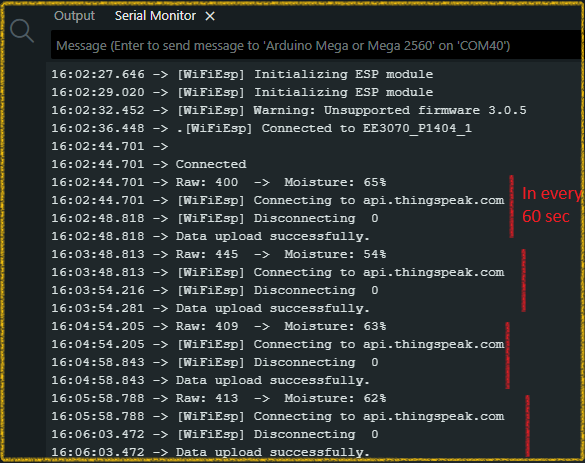
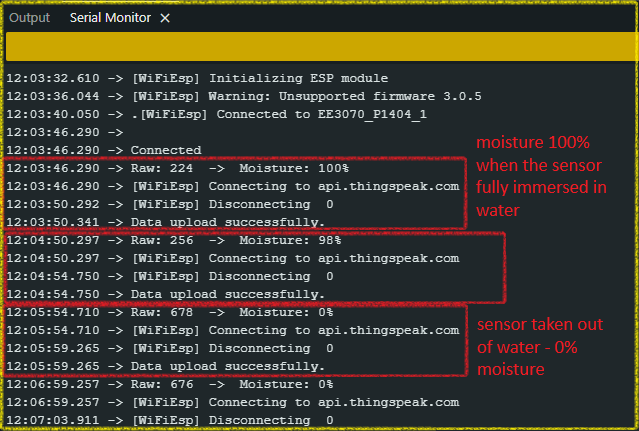
09 Jan 2026 17:34
ThingSpeak code revised

diff --git a/docs/2_Software_Development.md b/docs/2_Software_Development.md
@@ -5,7 +5,7 @@ A complete IoT system has many parts that need to work together. Instead of writ
 
 Our first step is to get a reliable reading from the moisture sensor.
 
-**Part 1: Calibrating the Moisture Sensor**
+## Part 1: Calibrating the Moisture Sensor
 
 The analog output of the moisture sensor gives us a raw number, not a percentage. This raw value can vary between different sensors and depends on the voltage supplied. To get a meaningful moisture percentage (0% to 100%), we first need to calibrate our specific sensor.
 
@@ -62,7 +62,7 @@ Your values will be slightly different, but they should look something like this
 
 ---
 
-**Part 2: Converting Raw Values to a Percentage**
+## Part 2: Converting Raw Values to a Percentage
 
 Now that we have our unique calibration values, we can write a new program to convert the sensor's raw output into an intuitive 0% to 100% moisture scale. For this, we will use the incredibly useful `map()` function in Arduino.
 
@@ -115,7 +115,7 @@ void loop() {
 **2. How the Code Works**
 
 - **`DRY_VALUE` and `WET_VALUE`:** We store our calibration numbers in constant variables at the top of the code. This makes them easy to find and change.
-- **`map(rawValue, DRY_VALUE, WET_VALUE, 0, 100)`:** This is the core of our conversion. It tells the Arduino: "Take the `rawValue`. If it's equal to `DRY_VALUE` (680), the result is 0. If it's equal to `WET_VALUE` (250), the result is 100. For any value in between, calculate the proportional percentage." The function is smart enough to handle the fact that our "from" range is inverted (from a high number to a low one).
+- **`map(rawValue, DRY_VALUE, WET_VALUE, 0, 100)`:** This is the core of our conversion. It tells the Arduino: "Take the `rawValue`. If it's equal to `DRY_VALUE` (680), the result is 0%. If it's equal to `WET_VALUE` (250), the result is 100%. For any value in between, calculate the proportional percentage." The function is smart enough to handle the fact that our "from" range is inverted (from a high number to a low one).
 - **`constrain(moisturePercent, 0, 100)`:** This is a safety function. It ensures that our final `moisturePercent` value will never be displayed as less than 0 or greater than 100, even if there's a strange spike in the sensor reading.
 
 **3. Testing the Program**
@@ -137,7 +137,7 @@ With this reliable percentage reading, we are now ready to connect our project t
 
 ---
 
-**Part 3A: Uploading moisture data to ThingSpeak**
+## Part 3A: Uploading moisture data to ThingSpeak
 
 Now that we can accurately measure soil moisture, the next step is to send this data to the ThingSpeak channel we configured. This will involve writing Arduino code that connects to your Wi-Fi and sends HTTP requests containing the sensor data.
 
@@ -220,7 +220,19 @@ void loop() {
 
 <img src = "./images/Thingspeak_upload_v1_serialmon.png">
 
+<img src = "./images/1767932416225.jpg">
+
+<img src= "./images/1767932427613.jpg">
+
+To send the soil moisture data to the cloud, the code calls the `ThingSpeak.writeFields()` function. ThingSpeak then automatically adds a timestamp to each new reading as it arrives, which allows us to track the moisture levels over time.
+
+We can test the alert system by simulating a "dry soil" event (0% moisture) by simply taking the sensor out of the water. This low value triggers a 'React' app within ThingSpeak, which is configured to use the ThingHTTP service (see [3_Cloud_Configuration.md](3_Cloud_Configuration.md) for setup details). 
+
 <img src = "./images/Thingspeak_upload_v1_on_field1.png">
+
+ThingHTTP then sends a REST API request to CallMeBot, an external service that sends a notification to my phone via WhatsApp, as shown in the screenshot below.
+
+<img src = "./images/callmebot_message_1.jpg">
 
 **Critique of this Preliminary Version**
 
@@ -235,7 +247,7 @@ This "blocking" approach is simple to understand, but it's not scalable. A bette
 
 In the next section, we will improve this sketch to solve these problems, creating a more robust foundation for our final project.
 
-**Part 3B: Uploading moisture data to ThingSpeak - an improved version**
+## Part 3B: Uploading moisture data to ThingSpeak - an improved version
 
 As we discussed, the `delay()` function in our first version makes our program "blocking," which is not ideal. To build a scalable IoT device, we need our code to be responsive and capable of handling multiple tasks at once.
 
@@ -293,6 +305,10 @@ The complete source code can be found in the `Code/4_ThingSpeak_Upload_Moisture_
 #define SENSOR_PIN A0 
 #define PUMP_RELAY_PIN 2
 
+// --- enable/disable ThingSpeak at compile time ---
+// comment to disable ThingSpeak uploads  
+// #define THINGSPEAK_ENABLE
+
 // --- Sensor Calibration ---
 // Replace these with the values you found in the calibration step
 const int DRY_VALUE = 680; // Raw ADC value for 0% moisture (in air)
@@ -330,9 +346,10 @@ void controlWaterPump();
 // SETUP: Runs once when the Arduino starts up
 // ==============================================================================
 void setup() {
-  Serial.begin(115200);
+  Serial.begin(SERIAL_MON_BAUDRATE);
   Serial1.begin(ESP_BAUDRATE); // Initialize Serial1 for ESP8266 modem
-
+  delay(500); //a short delay to let Serial port settle
+    
   pinMode(PUMP_RELAY_PIN, OUTPUT);
   digitalWrite(PUMP_RELAY_PIN, LOW); // Ensure pump is OFF by default
 
@@ -360,11 +377,14 @@ void loop() {
     readMoisture();
   }
 
-  // Task 3: Upload data to ThingSpeak at its specified interval
+  // Task 3: Upload data to ThingSpeak at its specified interval 
+  // with conditional compilation (#define THINGSPEAK_ENABLE)
+  #if defined(THINGSPEAK_ENABLE)
   if (currentMillis - previousThingSpeakUploadMillis >= thingSpeakUploadInterval) {
     previousThingSpeakUploadMillis = currentMillis; // Save the time of this upload
     uploadToThingSpeak();
   }
+  #endif
 
   // Task 4: Control the water pump (runs on every loop)
   // This function will contain the logic to turn the pump on/off based on moisture
@@ -457,7 +477,8 @@ void controlWaterPump() {
 }
 ```
 
-**Part 4: React - Closing the Loop with Automated Watering**
+
+## Part 4: React - Closing the Loop with Automated Watering
 
 *   Safely connect a water pump to the Arduino using a relay module.
 *   Modify the Arduino code to automatically activate the water pump when the moisture level drops below the safe range.

diff --git a/docs/3_Cloud_Configuration.md b/docs/3_Cloud_Configuration.md
@@ -197,4 +197,4 @@ Your cloud platform is now fully prepared. It is waiting to receive data from yo
 
 The final piece of the puzzle is to program your Arduino to read the moisture sensor and send the data to ThingSpeak.
 
-**Next Step:** Proceed to [Part 3: Uploading Data to the Cloud](../docs/2_Software_Development.md#part-3-uploading-moisture-data-to-thingspeak) to begin writing the device code.
+**Next Step:** Proceed to [2_Software_development](../docs/2_Software_Development.md) to begin writing the device code.
